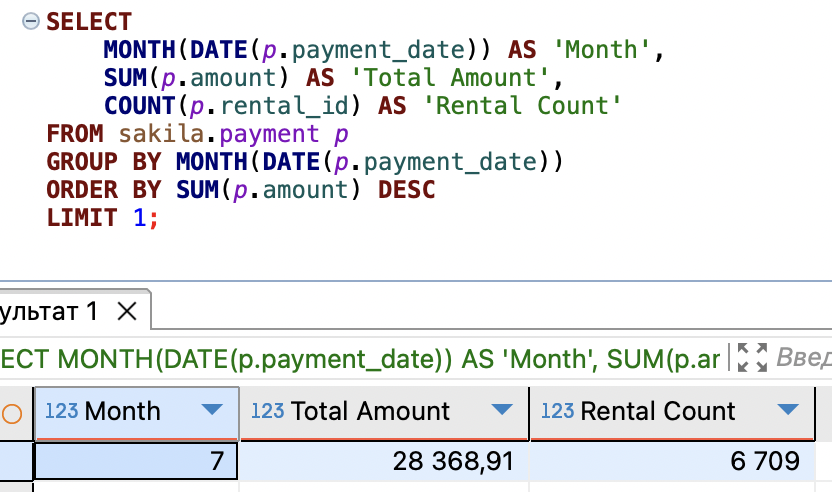
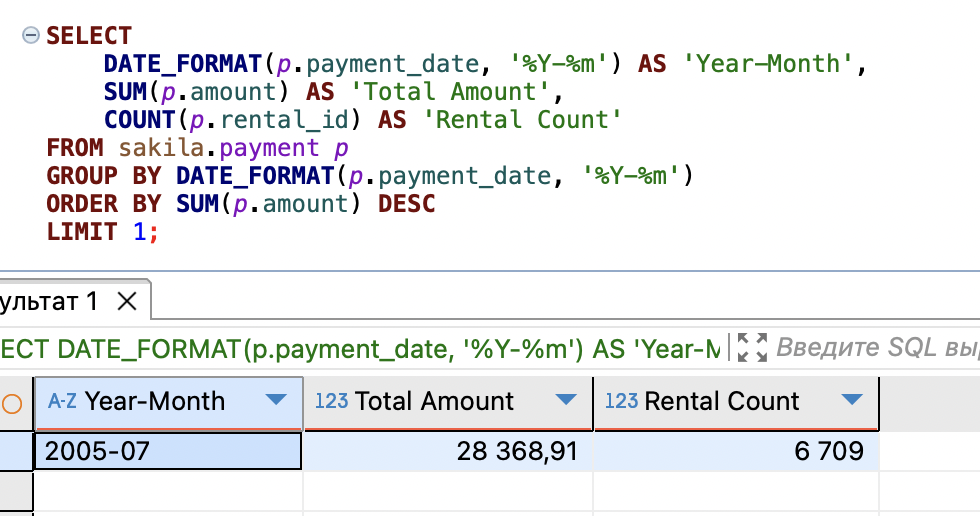
HW-12.04.v8

Changed region(s): [[0.0, 0.5183, 1.0, 1.0], [0.0, 0.0, 0.875, 0.4878], [0.9375, 0.8232, 0.9688, 0.8537]]

diff --git a/README.md b/README.md
@@ -65,11 +65,11 @@ WHERE f.`length` < (SELECT AVG(f.`length` ) FROM sakila.film f) ;
 
 ```SQL
 SELECT
-    MONTH(DATE(p.payment_date)) AS 'Month',
+    DATE_FORMAT(p.payment_date, '%Y-%m') AS 'Month',
     SUM(p.amount) AS 'Total Amount',
     COUNT(p.rental_id) AS 'Rental Count'
 FROM sakila.payment p
-GROUP BY MONTH(DATE(p.payment_date))
+GROUP BY DATE_FORMAT(p.payment_date, '%Y-%m')
 ORDER BY SUM(p.amount) DESC
 LIMIT 1;
 ```
